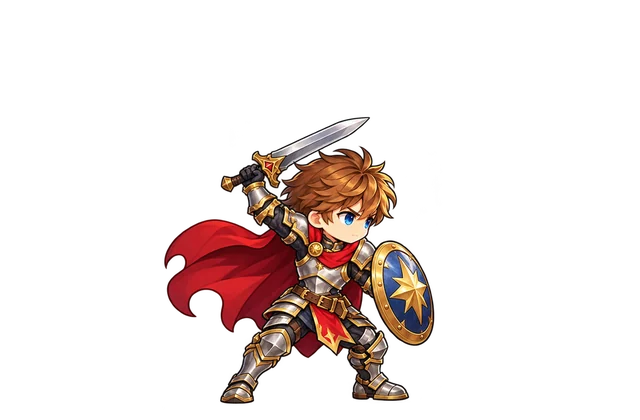
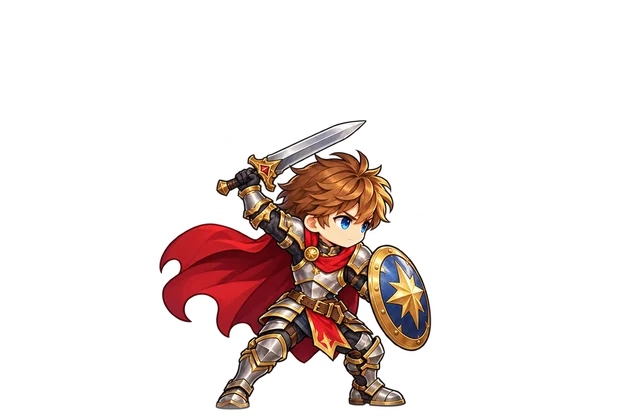
12 位主角的逐格動畫全部上線（待機、普攻三段、技能，各 4 格）
切圖腳本改良：用角色深色描邊找腳底（特效不再被當成地面）、
清掉隔壁格溢出的特效碎片、格線附近淡出；Service Worker 快取升級 v6。

Changed region(s): [[0.25, 0.2786, 0.6875, 0.9905]]

diff --git a/public/sw.js b/public/sw.js
@@ -1,5 +1,5 @@
 // 離線快取：頁面走網路優先（確保拿到新版），其餘靜態檔走快取優先
-const CACHE = 'dawnland-v5';
+const CACHE = 'dawnland-v6';
 self.addEventListener('install', () => self.skipWaiting());
 self.addEventListener('activate', e => {
   e.waitUntil((async () => {

diff --git a/scripts/anim-frames.py b/scripts/anim-frames.py
@@ -21,6 +21,8 @@ CANVAS_W, CANVAS_H = 640, 420
 ANCHOR_X, ANCHOR_Y = 320, 404
 IDLE_HEIGHT = 270  # 待機動作的角色身高（像素）
 ACTS = ['idle', 'atk1', 'atk2', 'atk3', 'skill']
+# 個別角色的大小微調（武器高舉過頭、帽子很高的角色，用外框算身高會被縮太小）
+SIZE = {}
 
 
 def dechecker(im: Image.Image) -> Image.Image:
@@ -67,6 +69,56 @@ def cuts(profile, n):
     return out
 
 
+def components(m):
+    """8 連通的區塊標號（純 numpy＋堆疊，給縮小過的遮罩用）"""
+    h, w = m.shape
+    lab = np.zeros((h, w), np.int32)
+    n = 0
+    for y0, x0 in zip(*np.nonzero(m)):
+        if lab[y0, x0]:
+            continue
+        n += 1
+        st = [(y0, x0)]
+        lab[y0, x0] = n
+        while st:
+            y, x = st.pop()
+            for dy in (-1, 0, 1):
+                for dx in (-1, 0, 1):
+                    yy, xx = y + dy, x + dx
+                    if 0 <= yy < h and 0 <= xx < w and m[yy, xx] and not lab[yy, xx]:
+                        lab[yy, xx] = n
+                        st.append((yy, xx))
+    return lab, n
+
+
+def clean_cell(cell, r, c):
+    """去掉隔壁格溢過來的特效碎片，並讓貼著格線的部分淡出（光束被格線切斷時才不會有一條硬邊）"""
+    a = np.array(cell)
+    al = a[..., 3].astype(np.float64)
+    h, w = al.shape
+    K = 4
+    sh, sw = h // K, w // K
+    small = al[:sh * K, :sw * K].reshape(sh, K, sw, K).max((1, 3)) > 40
+    lab, n = components(small)
+    if n > 1:
+        dark = ((a[..., 3] > 200) & (a[..., :3].max(-1) < 90))[:sh * K, :sw * K].reshape(sh, K, sw, K).any((1, 3))
+        sizes = np.bincount(lab.ravel(), weights=dark.ravel().astype(np.float64), minlength=n + 1)
+        main = int(sizes[1:].argmax()) + 1
+        edges = {'l': lab[:, 0], 'r': lab[:, -1], 't': lab[0, :], 'b': lab[-1, :]}
+        inner = ('r' if c == 0 else 'l') + ('b' if r == 0 else 't')
+        drop = set()
+        for e in inner:
+            drop |= set(np.unique(edges[e])) - {0, main}
+        if drop:
+            kill = np.isin(lab, list(drop)).repeat(K, 0).repeat(K, 1)
+            al[:sh * K, :sw * K][kill] = 0
+    f = 0.06
+    ramp = lambda L: np.clip(np.minimum(np.arange(L), np.arange(L)[::-1]) / (L * f), 0, 1)
+    al *= ramp(h)[:, None] * ramp(w)[None, :]
+    a[..., 3] = al.astype(np.uint8)
+    return Image.fromarray(a, 'RGBA')
+
+
 def frames_of(path):
     im = dechecker(Image.open(path))
     a = np.array(im)[..., 3].astype(np.float64)
@@ -75,15 +127,25 @@ def frames_of(path):
     for i in range(4):
         r, c = divmod(i, 2)
         cell = im.crop((xs[c], ys[r], xs[c + 1], ys[r + 1]))
+        cell = clean_cell(cell, r, c)
         al = np.array(cell)[..., 3]
         yy, xx = np.where(al > 40)
         if len(xx) == 0:
             out.append(None)
             continue
         top, bot, left, right = yy.min(), yy.max(), xx.min(), xx.max()
-        # 腳底中心：最底下 8% 列的不透明像素平均 x
-        band = al[max(top, bot - int((bot - top) * 0.08)):bot + 1]
-        bx = np.where(band > 40)[1]
+        # 腳底：用角色的深色描邊找（招式特效多半是亮色光芒，常畫到腳底下，不能拿來當地面）
+        rgb = np.array(cell)[..., :3].astype(np.int32)
+        dark = (al > 200) & (rgb.max(-1) < 90)
+        rows = np.where(dark.sum(1) >= 3)[0]
+        if len(rows) and rows.max() > top + (bot - top) * 0.6:
+            bot = int(rows.max())
+            mask = dark
+        else:
+            mask = al > 40
+        # 腳底中心：最底下 8% 列的像素平均 x
+        band = mask[max(top, bot - int((bot - top) * 0.08)):bot + 1]
+        bx = np.where(band)[1]
         foot = float(bx.mean()) if len(bx) else (left + right) / 2
         out.append({'img': cell, 'top': int(top), 'bot': int(bot), 'cellH': cell.height, 'foot': foot})
     return out
@@ -100,7 +162,7 @@ def main(src):
         sheets = {act: frames_of(p) for act, p in acts.items() if act in ACTS}
         idle = [fr for fr in sheets.get('idle', []) if fr]
         ref = idle or [fr for fs in sheets.values() for fr in fs if fr]
-        scale = IDLE_HEIGHT / float(np.median([fr['bot'] - fr['top'] for fr in ref]))
+        scale = IDLE_HEIGHT / float(np.median([fr['bot'] - fr['top'] for fr in ref])) * SIZE.get(ch, 1)
         os.makedirs(os.path.join(DST, ch), exist_ok=True)
         manifest[ch] = {}
         for act, frs in sheets.items():
